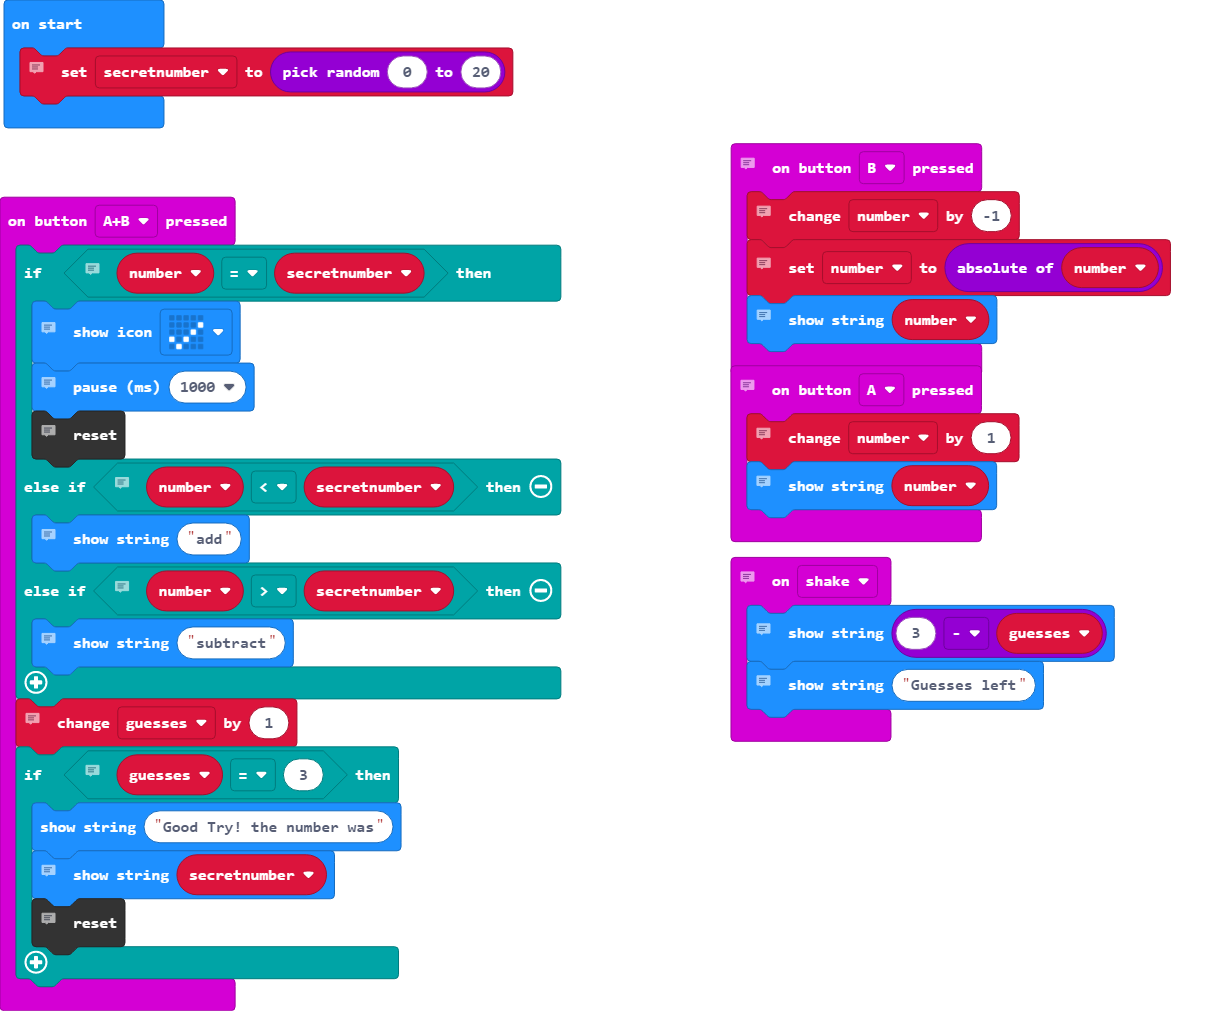
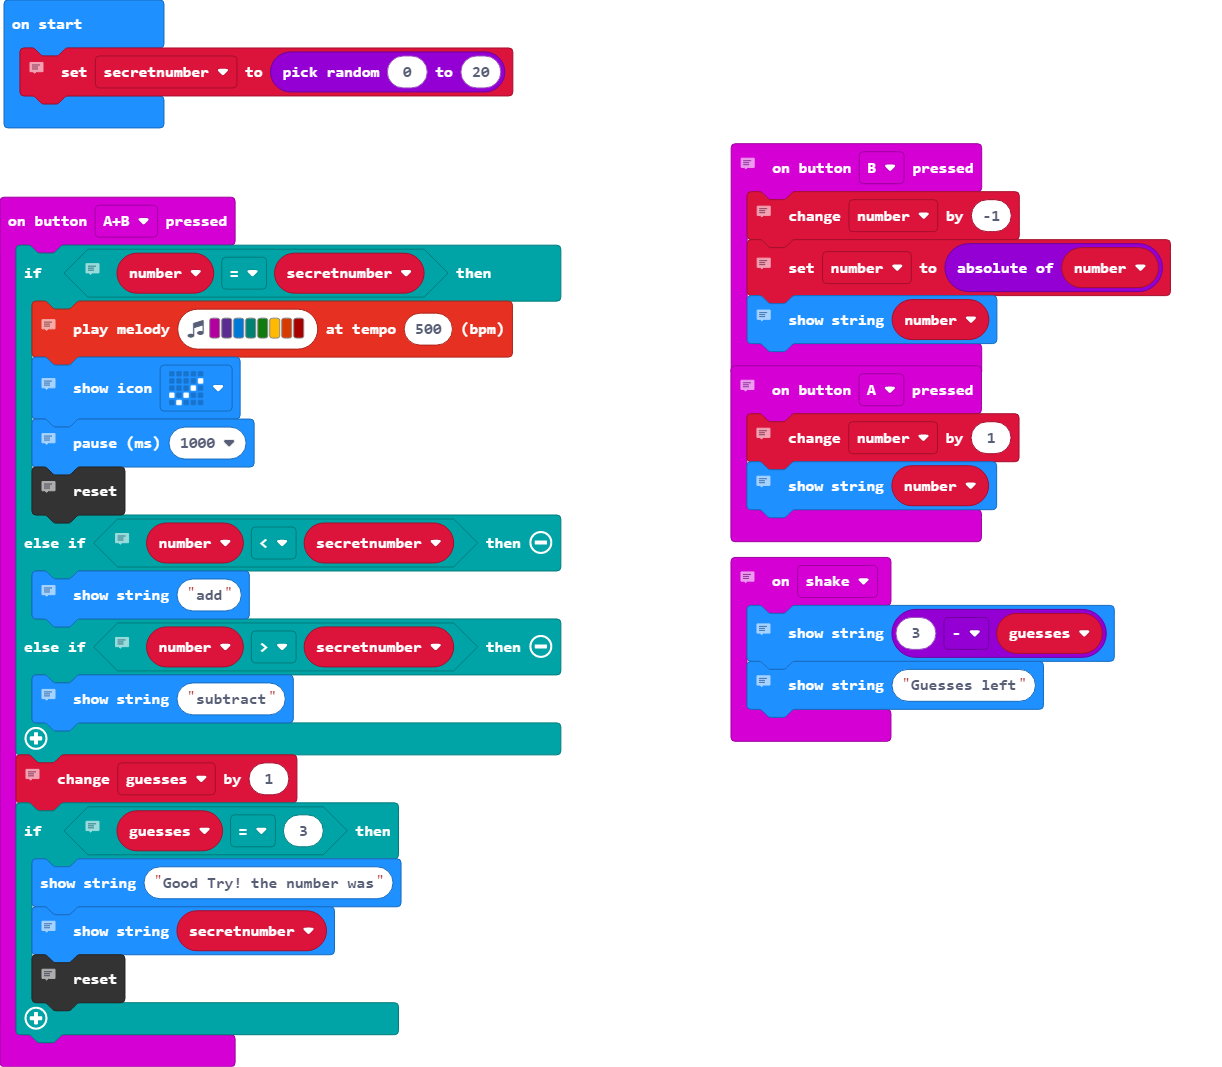
Update main.blocks, main.ts

Changed region(s): [[0.0, 0.184, 0.4664, 0.9812], [0.5908, 0.1227, 0.964, 0.7359], [0.0, 0.0, 0.4354, 0.1533]]

diff --git a/main.ts b/main.ts
@@ -10,6 +10,8 @@ input.onButtonPressed(Button.AB, function () {
     // if the guessed number is less than the secret number the word "add' is displayed
     // if the guessed number is greater than the secret number the word "subtract' is displayed
     if (number == secretnumber) {
+        // plays music as a reward for guessing the correct number
+        music.playMelody("C D E F G A B C5 ", 500)
         // displays a check
         basic.showIcon(IconNames.Yes)
         // pauses for 1 second so the viewer can see the check
